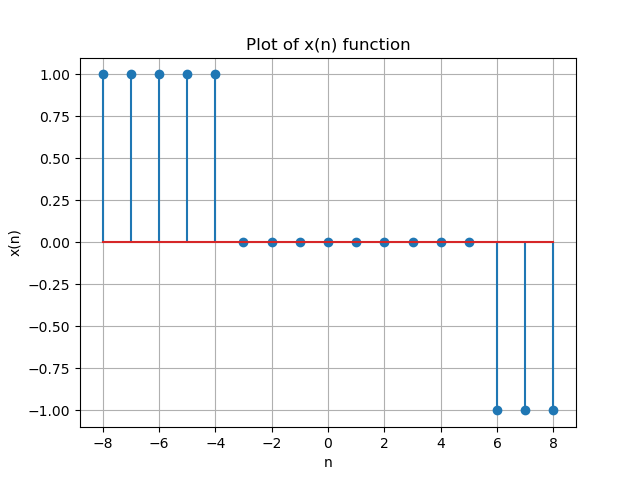
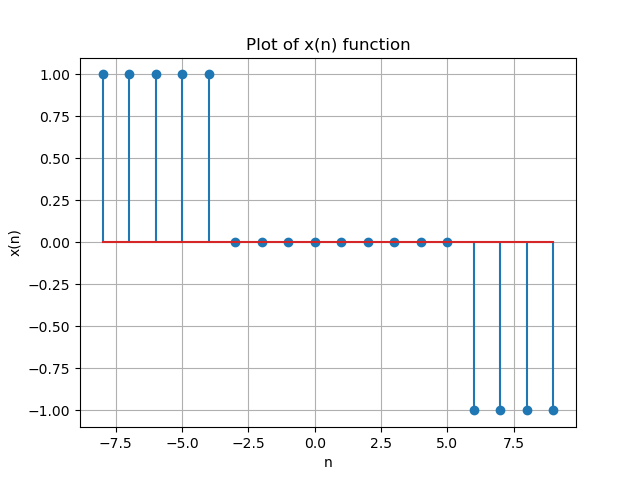
1

diff --git a/IN-28/gate1.tex b/IN-28/gate1.tex
@@ -59,16 +59,16 @@ Consider the discrete time signal $x\sbrak{n} = u\sbrak{-n+5} - u\sbrak{n+3}$, w
     0;n<0
 \end{cases}
 \]
-The smallest $n$ for which $x\sbrak{n} = 0$ is?\\
+The smallest n for which $x\sbrak{n} = 0$ is?\\
 \textbf{Solution:}
-From \figref{IN/28/fig1}, the minimum value of $n$ is given as 
+From \figref{IN/28/fig1}, the minimum value of n is given as 
 \begin{align}
     n = -3
 \end{align}
 \begin{figure}[h!]
 \renewcommand\thefigure{1}
     \centering
-    \includegraphics[width=1.0\columnwidth]{fig_1.png}
+    \includegraphics[width=1.0\columnwidth]{figs/fig_1.png}
     \caption{Plot of function $x\brak{n}$ taken from python3}
     \label{IN/28/fig1}
 \end{figure}

diff --git a/IN-28/codes/fig_1.c b/IN-28/codes/fig_1.c
@@ -1,0 +1,20 @@
+
+#include <stdio.h>
+
+int main()
+{
+    FILE *fp = fopen("data.dat", "w");
+    int a = 0;
+    for (int i= -8; i<10; i++){
+        if(i!=9){
+            fprintf(fp, "%d ",i);
+            }
+        else{
+            fprintf(fp, "%d",i);
+        }
+    }
+    fclose(fp);
+    
+
+}
+

diff --git a/IN-28/codes/Fig_1.py b/IN-28/codes/Fig_1.py
@@ -4,7 +4,7 @@ import numpy as np
 def u(n):
     return np.heaviside(n, 1)
 
-x = np.arange(-8, 9)
+x = np.loadtxt("data.dat")
 plt.stem(x, u(-x+5)-u(x+3))
 plt.title("Plot of x(n) function")
 plt.grid(1)
